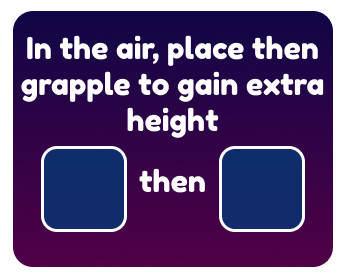
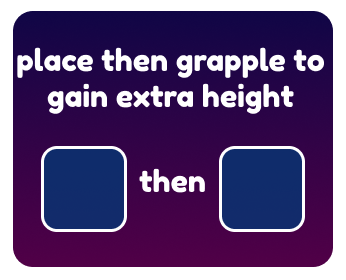
prompts done

Changed region(s): [[0.0289, 0.1143, 0.9538, 0.5143]]

diff --git a/core/src/edu/cornell/gdiac/bubblebound/PlatformController.java b/core/src/edu/cornell/gdiac/bubblebound/PlatformController.java
@@ -225,6 +225,8 @@ public class PlatformController implements ContactListener, Screen {
 	protected Texture detachswingingBP;
 	protected Texture movegravititesBP;
 	protected Texture placegrappleBP;
+
+	protected Texture grappleplaceBP;
 	protected Texture momentumBP;
 	protected Texture rangeBP;
 	protected Texture portalBP;
@@ -522,6 +524,7 @@ public class PlatformController implements ContactListener, Screen {
 		detachswingingBP = directory.getEntry("detachswingingBP", Texture.class);
 		movegravititesBP = directory.getEntry("movegravitiesBP", Texture.class);
 		placegrappleBP = directory.getEntry("placegrappleBP", Texture.class);
+		grappleplaceBP = directory.getEntry("grappleplaceBP", Texture.class);
 		momentumBP = directory.getEntry("momentumBP", Texture.class);
 		rangeBP = directory.getEntry("rangeBP", Texture.class);
 		portalBP = directory.getEntry("portalBP", Texture.class);
@@ -664,8 +667,7 @@ public class PlatformController implements ContactListener, Screen {
 		setSounds();
 
 
-
-		LevelEditorV2 Level2 = new LevelEditorV2(playerController,jsonPath);
+		LevelEditorV2 Level2 = new LevelEditorV2(playerController, jsonPath);
 		Level2.readTileTextures(textures, spikeTextureList);
 		Level2.readJson();
 		List<BoxObstacle> BoxList = Level2.getBoxes();
@@ -680,12 +682,12 @@ public class PlatformController implements ContactListener, Screen {
 		setParallax(skybackground);
 
 
-		float dwidth  = goalStrip.getRegionWidth()/scale.x;
-		float dheight = goalStrip.getRegionHeight()/scale.y;
+		float dwidth = goalStrip.getRegionWidth() / scale.x;
+		float dheight = goalStrip.getRegionHeight() / scale.y;
 //		////////System.out.println("currLevel: " + currLevel);
 //		////////System.out.println("targetLevel: " + targetLevel);
 		// Add level goal
-		for(int i = 0; i < doors.size(); i++){
+		for (int i = 0; i < doors.size(); i++) {
 			Door door = doors.get(i);
 			door.initialize(goalStrip);
 			door.setBodyType(BodyDef.BodyType.StaticBody);
@@ -695,7 +697,7 @@ public class PlatformController implements ContactListener, Screen {
 			door.setName("door_" + targetLevel + "_to_" + door.getTargetLevelID());
 			door.isGoal = true;
 			addObject(door);
-			if(door.getTargetLevelID() == currLevel){
+			if (door.getTargetLevelID() == currLevel) {
 //				////////System.out.println("TARGET DOOR FOUND!");
 				avatarSpawnLocation = door.getPlayerSpawnLocation();
 				avatarSpawnDirection = door.getSpawnDirection();
@@ -708,10 +710,6 @@ public class PlatformController implements ContactListener, Screen {
 		}
 
 
-
-
-
-
 		currLevel = targetLevel;
 
 		BUBBLE_LIMIT = (currLevel - 1) / 5;
@@ -719,7 +717,7 @@ public class PlatformController implements ContactListener, Screen {
 
 		avatar = needToInitializeSpawn ? Level2.getPlayer(Door.SpawnDirection.RIGHT) : Level2.getPlayerAtLocation(avatarSpawnLocation, avatarSpawnDirection);
 //		////////System.out.println("PRESPAWN LOC: "+ avatar.getPosition());
-		if(needToInitializeSpawn) {
+		if (needToInitializeSpawn) {
 			avatarSpawnLocation = avatar.getPosition();
 			avatarSpawnDirection = Door.SpawnDirection.RIGHT;
 			needToInitializeSpawn = false;
@@ -772,15 +770,13 @@ public class PlatformController implements ContactListener, Screen {
 			Bubble wo = bubbleList.get(i);
 
 
-
-
 			wo.setName("Bubble");
 			wo.setBodyType(BodyDef.BodyType.DynamicBody);
 			wo.setStatic(true);
 			wo.setDrawScale(scale);
 			wo.setDensity(1000f);
 			wo.setTexture(bubble);
-			wo.initialize(bubble,bubble2);
+			wo.initialize(bubble, bubble2);
 			bubbles.add(wo);
 			addObject(wo);
 		}
@@ -800,14 +796,13 @@ public class PlatformController implements ContactListener, Screen {
 		}
 
 		for (int i = 0; i < projEnemyData.size(); i++) {
-			createProjEnemy(projEnemyData.get(i).get(0),projEnemyData.get(i).get(1), Math.round(projEnemyData.get(i).get(2)));
+			createProjEnemy(projEnemyData.get(i).get(0), projEnemyData.get(i).get(1), Math.round(projEnemyData.get(i).get(2)));
 		}
 
 
-
 //
 //
-		if(currLevel == 1) {
+		if (currLevel == 1) {
 			ButtonPrompt bp = new ButtonPrompt(19, 14, jumpBP, 0, 1);
 			bp.setScale(scale);
 			bp.setMouse(leftMouse, rightMouse);
@@ -815,7 +810,7 @@ public class PlatformController implements ContactListener, Screen {
 			prompts.add(bp);
 		}
 //
-		if(currLevel == 2) {
+		if (currLevel == 2) {
 			ButtonPrompt bp2 = new ButtonPrompt(10, 12, jumpBP, 2, 3); //jump down
 			bp2.setScale(scale);
 			bp2.setMouse(leftMouse, rightMouse);
@@ -823,7 +818,7 @@ public class PlatformController implements ContactListener, Screen {
 			prompts.add(bp2);
 		}
 //
-		if(currLevel == 1) {
+		if (currLevel == 1) {
 			ButtonPrompt bp3 = new ButtonPrompt(3.5f, 11, leftBP, 4, 5);
 			bp3.setScale(scale);
 			bp3.setMouse(leftMouse, rightMouse);
@@ -831,86 +826,117 @@ public class PlatformController implements ContactListener, Screen {
 			prompts.add(bp3);
 		}
 ////
-		if(currLevel == 1) {
+		if (currLevel == 1) {
 			ButtonPrompt bp4 = new ButtonPrompt(7.5f, 11, rightBP, 6, 7);
 			bp4.setScale(scale);
 			bp4.setMouse(leftMouse, rightMouse);
 			bp4.setLetters(letters);
 			prompts.add(bp4);
 		}
+		if (currLevel == 3) {
+			ButtonPrompt bp5 = new ButtonPrompt(4, 14, grappleBP, 8);//grapple
+			bp5.setScale(scale);
+			bp5.setMouse(leftMouse, rightMouse);
+			bp5.setLetters(letters);
+			prompts.add(bp5);
+		}
+		if (currLevel == 3) {
+			ButtonPrompt bp6 = new ButtonPrompt(11, 14, detachBP, 8);
+			bp6.setScale(scale);
+			bp6.setMouse(leftMouse, rightMouse);
+			bp6.setLetters(letters);
+			prompts.add(bp6);
+		}
+		if (currLevel == 6) {
+			ButtonPrompt bp7 = new ButtonPrompt(11, 26, placeBP, 9);
+			bp7.setScale(scale);
+			bp7.setMouse(leftMouse, rightMouse);
+			bp7.setLetters(letters);
+			prompts.add(bp7);
+		}
 
-		ButtonPrompt bp5 = new ButtonPrompt(14, 8, grappleBP, 8);//grapple
-		bp5.setScale(scale);
-		bp5.setMouse(leftMouse, rightMouse);
-		bp5.setLetters(letters);
-		prompts.add(bp5);
+		if (currLevel == 1) {
+			ButtonPrompt bp8 = new ButtonPrompt(47, 12, restartBP);
+			bp8.setScale(scale);
+			bp8.setMouse(leftMouse, rightMouse);
+			bp8.setLetters(letters);
+			prompts.add(bp8);
+		}
 
-		ButtonPrompt bp6 = new ButtonPrompt(17, 8, detachBP, 8);
-		bp6.setScale(scale);
-		bp6.setMouse(leftMouse, rightMouse);
-		bp6.setLetters(letters);
-		prompts.add(bp6);
+		if (currLevel == 3){
+			ButtonPrompt bp9 = new ButtonPrompt(20.5f, 24, toggleBP);
+			bp9.setScale(scale);
+			bp9.setMouse(leftMouse, rightMouse);
+			bp9.setLetters(letters);
+			prompts.add(bp9);
+		}
 
-		ButtonPrompt bp7 = new ButtonPrompt(20, 8, placeBP, 9);
-		bp7.setScale(scale);
-		bp7.setMouse(leftMouse, rightMouse);
-		bp7.setLetters(letters);
-		prompts.add(bp7);
+		if(currLevel == 2) {
+			ButtonPrompt bp10 = new ButtonPrompt(6, 12, pauseBP);
+			bp10.setScale(scale);
+			bp10.setMouse(leftMouse, rightMouse);
+			bp10.setLetters(letters);
+			prompts.add(bp10);
+		}
 
-		ButtonPrompt bp8 = new ButtonPrompt(23, 8, restartBP);
-		bp8.setScale(scale);
-		bp8.setMouse(leftMouse, rightMouse);
-		bp8.setLetters(letters);
-		prompts.add(bp8);
+		if(currLevel == 3) {
+			ButtonPrompt bp11 = new ButtonPrompt(11, 17, detachswingingBP); //deatch while swinging to gain height
+			bp11.setScale(scale);
+			bp11.setMouse(leftMouse, rightMouse);
+			bp11.setLetters(letters);
+			prompts.add(bp11);
+		}
 
-		ButtonPrompt bp9 = new ButtonPrompt(26, 8, toggleBP);
-		bp9.setScale(scale);
-		bp9.setMouse(leftMouse, rightMouse);
-		bp9.setLetters(letters);
-		prompts.add(bp9);
+		if(currLevel == 5) {
+			ButtonPrompt bp12 = new ButtonPrompt(3, 27, movegravititesBP); //move between gravities to fall down
+			bp12.setScale(scale);
+			bp12.setMouse(leftMouse, rightMouse);
+			bp12.setLetters(letters);
+			prompts.add(bp12);
+		}
 
-		ButtonPrompt bp10 = new ButtonPrompt(2, 13, pauseBP);
-		bp10.setScale(scale);
-		bp10.setMouse(leftMouse, rightMouse);
-		bp10.setLetters(letters);
-		prompts.add(bp10);
+		if(currLevel == 3) {
+			ButtonPrompt bp13 = new ButtonPrompt(7.5f, 18, momentumBP, 5, 7); //gain momentum by going left/right
+			bp13.setScale(scale);
+			bp13.setMouse(leftMouse, rightMouse);
+			bp13.setLetters(letters);
+			prompts.add(bp13);
+		}
 
-		ButtonPrompt bp11 = new ButtonPrompt(5, 13, detachswingingBP); //deatch while swinging to gain height
-		bp11.setScale(scale);
-		bp11.setMouse(leftMouse, rightMouse);
-		bp11.setLetters(letters);
-		prompts.add(bp11);
+		if(currLevel == 6) {
+			ButtonPrompt bp14 = new ButtonPrompt(17.5f, 21, placegrappleBP, 9, 8); //in air place then grapple
+			bp14.setScale(scale);
+			bp14.setMouse(leftMouse, rightMouse);
+			bp14.setLetters(letters);
+			prompts.add(bp14);
+		}
 
-		ButtonPrompt bp12 = new ButtonPrompt(8, 13, movegravititesBP); //move between gravities to fall down
-		bp12.setScale(scale);
-		bp12.setMouse(leftMouse, rightMouse);
-		bp12.setLetters(letters);
-		prompts.add(bp12);
 
-		ButtonPrompt bp13 = new ButtonPrompt(11, 13, momentumBP, 5, 7); //gain momentum by going left/right
-		bp13.setScale(scale);
-		bp13.setMouse(leftMouse, rightMouse);
-		bp13.setLetters(letters);
-		prompts.add(bp13);
 
-		ButtonPrompt bp14 = new ButtonPrompt(14, 13, placegrappleBP, 9, 8); //in air place then grapple
-		bp14.setScale(scale);
-		bp14.setMouse(leftMouse, rightMouse);
-		bp14.setLetters(letters);
-		prompts.add(bp14);
 
-		ButtonPrompt bp15 = new ButtonPrompt(17, 13, rangeBP); //get in range of bubbles to attach
-		bp15.setScale(scale);
-		bp15.setMouse(leftMouse, rightMouse);
-		bp15.setLetters(letters);
-		prompts.add(bp15);
+		if(currLevel == 3) {
+			ButtonPrompt bp15 = new ButtonPrompt(4, 17, rangeBP); //get in range of bubbles to attach
+			bp15.setScale(scale);
+			bp15.setMouse(leftMouse, rightMouse);
+			bp15.setLetters(letters);
+			prompts.add(bp15);
+		}
 
-		ButtonPrompt bp16 = new ButtonPrompt(20, 13, portalBP); //find portals
-		bp16.setScale(scale);
-		bp16.setMouse(leftMouse, rightMouse);
-		bp16.setLetters(letters);
-		prompts.add(bp16);
+		if(currLevel == 1) {
+			ButtonPrompt bp16 = new ButtonPrompt(34, 12, portalBP); //find portals
+			bp16.setScale(scale);
+			bp16.setMouse(leftMouse, rightMouse);
+			bp16.setLetters(letters);
+			prompts.add(bp16);
+		}
 
+		if(currLevel == 7) {
+			ButtonPrompt bp17 = new ButtonPrompt(13, 26, grappleplaceBP, 9, 8); //in air place then grapple
+			bp17.setScale(scale);
+			bp17.setMouse(leftMouse, rightMouse);
+			bp17.setLetters(letters);
+			prompts.add(bp17);
+		}
 
 
 

diff --git a/core/src/edu/cornell/gdiac/bubblebound/obstacle/ButtonPrompt.java b/core/src/edu/cornell/gdiac/bubblebound/obstacle/ButtonPrompt.java
@@ -98,53 +98,81 @@ public class ButtonPrompt  {
         int[] buttons = input.buttons;
         canvas.draw(buttonTexture, Color.WHITE, 0, buttonTexture.getHeight(),x, y, 0, sx, sy);
         if(two){
+            System.out.println("TWO");
             float sx2 = sx;
             float sy2 = sy;
             Texture one = letters[getTexture(buttons[mapping1])];
             if(mapping1 == 8 && input.isMouseControlls()){
+                System.out.println("mapping1 8");
+
                 if(input.mouse){
+                    System.out.println("one left");
+
                     one = left;
                 }else{
+                    System.out.println("one right");
+
                     one = right;
                 }
                 sx2 /= 1.7;
                 sy2 /= 1.7;
             }
             if(mapping1 == 9 && input.isMouseControlls()){
+                System.out.println("mapping1 9");
+
                 if(input.mouse){
+                    System.out.println("one right");
+
                     one = right;
                 }else{
+                    System.out.println("one left");
+
                     one = left;
                 }
                 sx2 /= 1.7;
                 sy2 /= 1.7;
             }
             //canvas.draw(one, Color.WHITE, one.getWidth()/2f, one.getHeight()/2f, x + (85 * sx), y - (132 * sy), 0,2 * sx, 2 * sy);
-            canvas.draw(one, Color.WHITE, one.getWidth()/2f, one.getHeight()/2f, x + (86 * sx), y - (175 * sy), 0,1.5f * sx2, 1.5f * sy2);
+            if(one == left || one == right){
+                canvas.draw(one, Color.WHITE, one.getWidth()/2f, one.getHeight()/2f, x + (86 * sx), y - (190 * sy), 0,1.5f * sx2, 1.5f * sy2);
 
+            }else{
+                canvas.draw(one, Color.WHITE, one.getWidth()/2f, one.getHeight()/2f, x + (86 * sx), y - (175 * sy), 0,1.5f * sx2, 1.5f * sy2);
+
+            }
 
             float sx3 = sx;
             float sy3 = sy;
             Texture two = letters[getTexture(buttons[mapping2])];
             if(mapping2 == 8 && input.isMouseControlls()){
                 if(input.mouse){
-                    two = right;
-                }else{
                     two = left;
+                }else{
+
+                    two = right;
                 }
                 sx3 /= 1.7;
                 sy3 /= 1.7;
             }
             if(mapping2 == 9 && input.isMouseControlls()){
+
                 if(input.mouse){
-                    two = left;
-                }else{
+
                     two = right;
+                }else{
+
+                    two = left;
                 }
                 sx3 /= 1.7;
                 sy3 /= 1.7;
             }
-            canvas.draw(two, Color.WHITE, two.getWidth()/2f, two.getHeight()/2f, x + (264 * sx), y - (175 * sy), 0,1.5f * sx3, 1.5f * sy3);
+
+            if(two == left || two == right){
+                canvas.draw(two, Color.WHITE, two.getWidth()/2f, two.getHeight()/2f, x + (264 * sx), y - (190 * sy), 0,1.5f * sx3, 1.5f * sy3);
+            }else{
+                canvas.draw(two, Color.WHITE, two.getWidth()/2f, two.getHeight()/2f, x + (264 * sx), y - (175 * sy), 0,1.5f * sx3, 1.5f * sy3);
+
+            }
 
         }else if(noButtons) {
 

diff --git a/core/src/edu/cornell/gdiac/bubblebound/GDXRoot.java b/core/src/edu/cornell/gdiac/bubblebound/GDXRoot.java
@@ -59,7 +59,7 @@ public class GDXRoot extends Game implements ScreenListener {
 	 * or assign any screen.
 	 */
 	public GDXRoot() {
-		profMode = false;
+		profMode = true;
 	}
 
 	/** 
